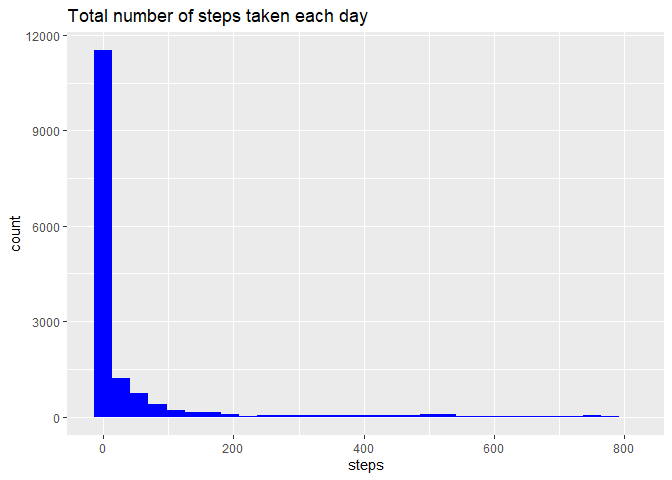
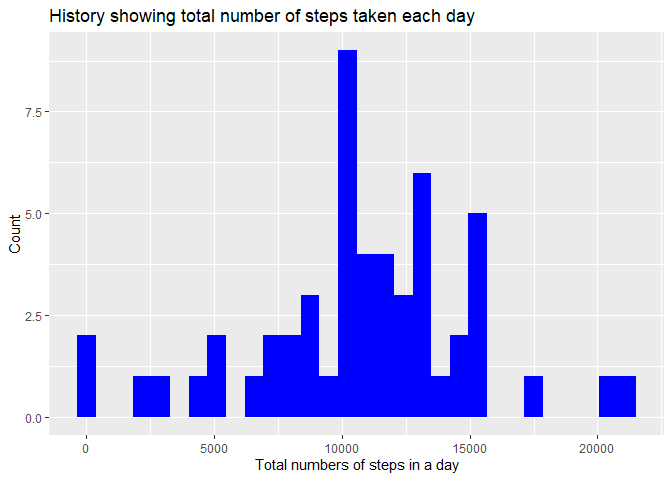
Correct Histogram

diff --git a/PA1_template.html b/PA1_template.html
@@ -477,13 +477,13 @@ group_by(date) %&gt;%
 <ul>
 <li>Histogram showing total number of steps taken each day</li>
 </ul>
-<pre class="r"><code>activity %&gt;% 
-ggplot(mapping = aes(x = steps)) +
+<pre class="r"><code>Totalactivity %&gt;% 
+ggplot(mapping = aes(x = totalsteps)) +
   geom_histogram(fill = &quot;blue&quot;)+
-  ggtitle(&quot;Total number of steps taken each day&quot;)</code></pre>
+  labs(x =&quot;Total numbers of steps in a day&quot;, y=&quot;Count&quot;)+
+  ggtitle(&quot;History showing total number of steps taken each day&quot;)</code></pre>
 <pre><code>## `stat_bin()` using `bins = 30`. Pick better value with `binwidth`.</code></pre>
-<pre><code>## Warning: Removed 2304 rows containing non-finite values (stat_bin).</code></pre>
[2 lines of base64/hex data omitted]
 </div>
 <div id="what-is-the-average-daily-activity-pattern" class="section level2">
 <h2>What is the average daily activity pattern?</h2>

diff --git a/PA1_template.md b/PA1_template.md
@@ -98,18 +98,15 @@ group_by(date) %>%
 
 
 ```r
-activity %>% 
-ggplot(mapping = aes(x = steps)) +
+Totalactivity %>% 
+ggplot(mapping = aes(x = totalsteps)) +
   geom_histogram(fill = "blue")+
-  ggtitle("Total number of steps taken each day")
+  labs(x ="Total numbers of steps in a day", y="Count")+
+  ggtitle("History showing total number of steps taken each day")
 ```
 
 ```
 ## `stat_bin()` using `bins = 30`. Pick better value with `binwidth`.
-```
-
-```
-## Warning: Removed 2304 rows containing non-finite values (stat_bin).
 ```
 
 ![](PA1_template_files/figure-html/unnamed-chunk-5-1.png)<!-- -->
